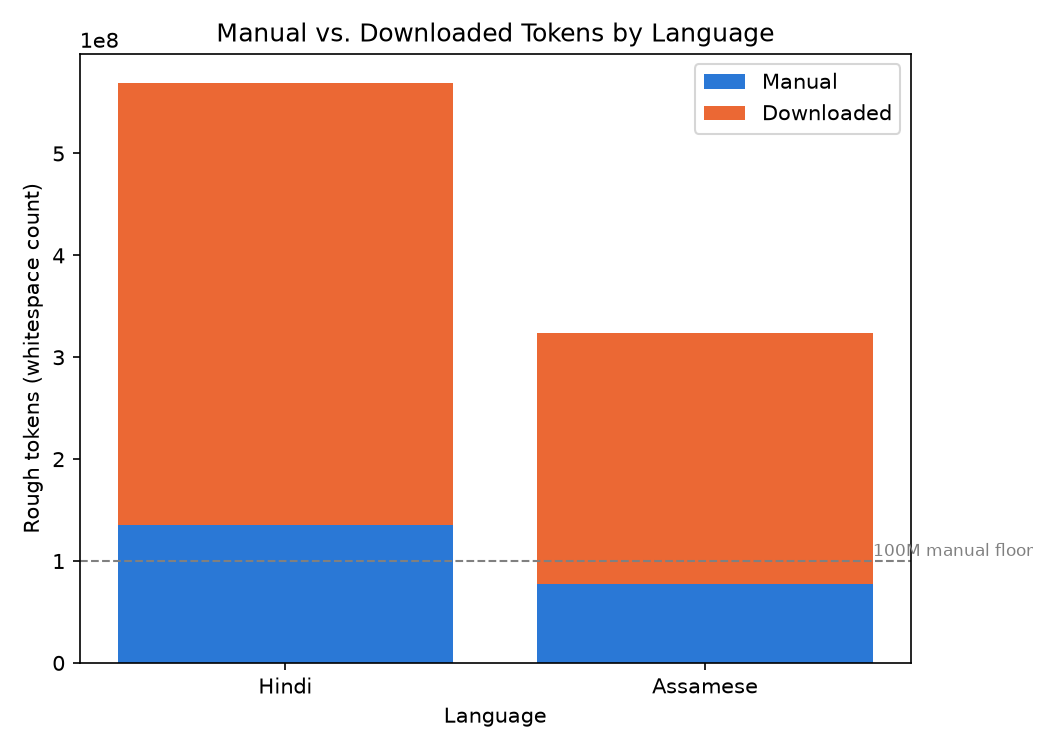
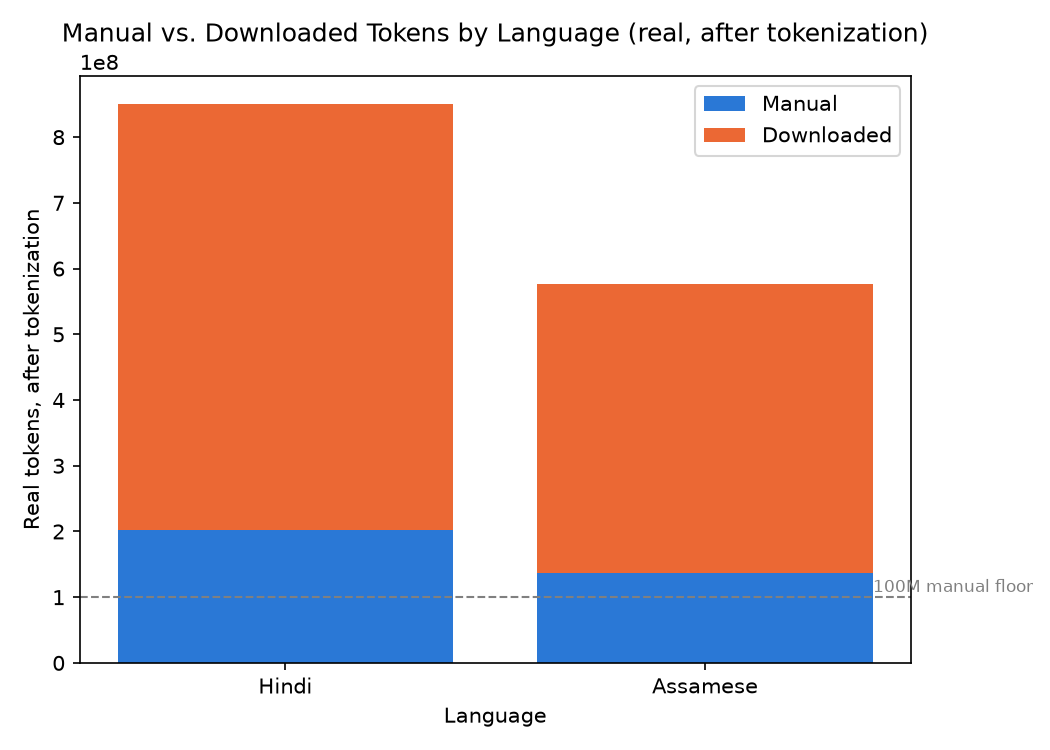
Fix manual-vs-downloaded figure to plot real tokens, not rough counts
The chart was plotting rough whitespace counts against the 100M manual
floor, which made Assamese's manual bar appear to fall short even though
the real, tokenized count (the actual spec metric) clears it comfortably.
Switched to real tokens so the figure matches the pass/fail condition
that's actually being checked.

diff --git a/report/make_figures.py b/report/make_figures.py
@@ -14,9 +14,16 @@ FIGURES_DIR = __file__.rsplit("/", 1)[0] + "/figures"
 
 
 def plot_manual_vs_downloaded():
+    # Real (fertility-adjusted) tokens, not rough whitespace counts: the
+    # spec's manual floor and total target are both stated "after
+    # tokenization" (line 121), so this is the number that actually
+    # determines pass/fail, and the only one that should be checked
+    # against the 100M floor line. A rough-count version of this chart
+    # would show Assamese's manual bar under the floor line even though
+    # the real, tokenized count clears it with room (137.4M vs 100M).
     languages = ["Hindi", "Assamese"]
-    manual = [135_428_971, 77_301_769]
-    downloaded = [433_768_075, 246_596_413]
+    manual = [202_330_883, 137_442_545]
+    downloaded = [648_049_504, 438_448_422]
 
     fig, ax = plt.subplots(figsize=(7, 5))
     x = range(len(languages))
@@ -24,12 +31,12 @@ def plot_manual_vs_downloaded():
     ax.bar(x, downloaded, bottom=manual, label="Downloaded", color="#eb6834")
     ax.set_xticks(list(x))
     ax.set_xticklabels(languages)
-    ax.set_ylabel("Rough tokens (whitespace count)")
+    ax.set_ylabel("Real tokens, after tokenization")
     ax.set_xlabel("Language")
-    ax.set_title("Manual vs. Downloaded Tokens by Language")
+    ax.set_title("Manual vs. Downloaded Tokens by Language (real, after tokenization)")
     ax.legend()
     ax.axhline(100_000_000, color="gray", linestyle="--", linewidth=1)
-    ax.text(1.4, 105_000_000, "100M manual floor", fontsize=8, color="gray")
+    ax.text(1.4, 108_000_000, "100M manual floor", fontsize=8, color="gray")
     fig.tight_layout()
     fig.savefig(f"{FIGURES_DIR}/manual_vs_downloaded.png", dpi=150)
     plt.close(fig)
